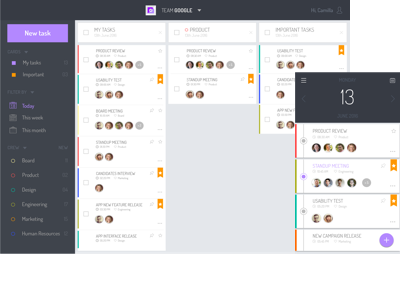
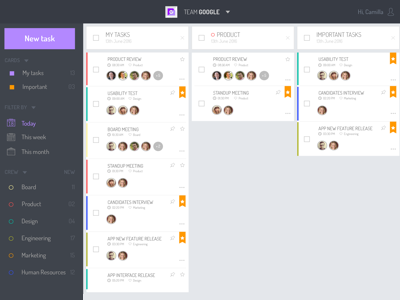
change images and typography

diff --git a/styles/css/styles.min.css b/styles/css/styles.min.css
@@ -1,1 +1,1 @@
-body{width:100%;height:100vh;display:inline-block;font-family:'Graphik Web', 'Roboto';font-weight:400;background-color:#fff;color:#424242;line-height:1.3;text-align:left}*,*:before,*:after{box-sizing:border-box}ul{padding:0;list-style:none}a{text-decoration:none}h2{font-size:32px}h4{margin:0 0 .5rem}p{font-size:16px;color:#9E9E9E;margin:0}.text-align--left{text-align:left}.text-align--center{text-align:center}.text-align--right{text-align:right}.flex--40{-ms-flex-preferred-size:40%;flex-basis:40%}.flex--50{-ms-flex-preferred-size:50%;flex-basis:50%}.flex--60{-ms-flex-preferred-size:60%;flex-basis:60%}.grid--2{-ms-grid-columns:(1fr)[2];grid-template-columns:repeat(2, 1fr)}.grid--3{-ms-grid-columns:(1fr)[3];grid-template-columns:repeat(3, 1fr)}.grid--4{-ms-grid-columns:(1fr)[4];grid-template-columns:repeat(4, 1fr)}.grid--5{-ms-grid-columns:(1fr)[5];grid-template-columns:repeat(5, 1fr)}.bubbles{margin:1rem 0 .5rem}.bubble{display:inline;padding:.3rem .5rem;font-weight:300;text-transform:uppercase;border-radius:.75rem}.bubble--red{background:#FF5252;color:#FFCECE}.bubble--blue{background:#00B8d4;color:#9EF2FF}@font-face{font-family:'Graphik Web';src:url("../../assets/fonts/Graphik-Medium-Web.eot");src:url("../../assets/fonts/Graphik-Medium-Web.eot?#iefix") format("embedded-opentype"),url("../../assets/fonts/Graphik-Medium-Web.woff2") format("woff2"),url("../../assets/fonts/Graphik-Medium-Web.woff") format("woff");font-weight:500;font-style:normal;font-stretch:normal}@font-face{font-family:'Graphik Web';src:url("../../assets/fonts/Graphik-Regular-Web.eot");src:url("../../assets/fonts/Graphik-Regular-Web.eot?#iefix") format("embedded-opentype"),url("../../assets/fonts/Graphik-Regular-Web.woff2") format("woff2"),url("../../assets/fonts/Graphik-Regular-Web.woff") format("woff");font-weight:400;font-style:normal;font-stretch:normal}@font-face{font-family:'Graphik Web';src:url("../../assets/fonts/Graphik-Light-Web.eot");src:url("../../assets/fonts/Graphik-Light-Web.eot?#iefix") format("embedded-opentype"),url("../../assets/fonts/Graphik-Light-Web.woff2") format("woff2"),url("../../assets/fonts/Graphik-Light-Web.woff") format("woff");font-weight:300;font-style:normal;font-stretch:normal}.text__label{font-size:.75rem;font-weight:400;color:#FF5252;margin:1rem 0 .5rem;text-transform:uppercase}.text__label--small{font-size:.65rem;margin:.25rem 0 0}.text__title{font-weight:400;color:#424242;margin:0}.text__title--light{font-size:1rem;font-weight:300}.text__subtitle{font-size:.85rem;font-weight:300;color:#424242}.text__description,.text__list{font-size:.85rem;font-weight:300;margin-top:.5rem}.text__description{color:#697788;line-height:1.5}.text__list{color:#BDBDBD;margin-bottom:.5rem}.header{background:#fff}.header__title{-webkit-mask:url("../../assets/images/camilla-medeiros-logo.svg") no-repeat;mask:url("../../assets/images/camilla-medeiros-logo.svg") no-repeat;-webkit-mask-size:contain;mask-size:contain;background-color:#FF5252;width:20rem;height:3rem;margin:0 auto;letter-spacing:2px;text-transform:lowercase;transition:all 0.3s}.header__title--small{position:absolute;top:1.5rem;left:1rem;width:12rem;height:1.7rem}.header__title--large{animation:colorChange 20s infinite alternate}.header__link{color:#FF5252}.header--medium{position:fixed;right:0;left:0;height:210px;padding-top:4rem;overflow:hidden;transition:height 0.3s;text-align:center;z-index:9999}.header--full{display:-ms-flexbox;display:flex;-ms-flex-align:center;align-items:center;-ms-flex-direction:column;flex-direction:column;-ms-flex-pack:center;justify-content:center;width:100%;height:calc(100vh - 3.25rem);transition:all 2s ease}.header--shrink{transition:all 0.4s;height:75px;padding:1rem;box-shadow:0px 2px 10px 0px rgba(0,0,0,0.1)}.navigation__item{display:inline;font-size:1rem;font-weight:300;margin:0 .5rem;text-transform:uppercase}.navigation__link{color:#757575;padding:0 .5rem 1.25rem;border-bottom:6px solid transparent}.navigation__link:hover{border-bottom:6px solid #eee}.navigation__link--active{border-bottom:6px solid #eee}.main{width:100%}.main--full{padding-top:210px}.main--medium{padding-top:100px}.main__wrapper{max-width:956px;margin:0 auto;padding-bottom:3.5rem}.footer{position:fixed;right:0;bottom:0;left:0;display:-ms-flexbox;display:flex;-ms-flex-align:center;align-items:center;z-index:999;background:#fff;padding:1rem;border-top:1px solid #eee}.footer__left{font-size:.75rem;font-weight:300;margin-right:auto}.footer__social{margin:0 .25rem}.footer__link:hover{text-decoration:underline}.footer a{color:#BDBDBD}.footer a:hover{color:#FF8A80}@media (min-width: 0) and (max-width: 768px){.footer{display:inline-block;text-align:center}.footer__right{display:none}}.block__profile{display:-ms-flexbox;display:flex;-ms-flex-align:center;align-items:center;max-width:600px;margin:2.5rem auto}.block__image{-ms-flex-negative:0;flex-shrink:0;background:url("../../assets/images/camilla-medeiros.png") no-repeat;background-size:cover;width:150px;height:150px;margin:0 auto;border-radius:10rem;-webkit-filter:grayscale(100%);filter:grayscale(100%)}.block__description{margin-left:3rem}.block__contact{background:#eee;max-width:300px;margin:3rem auto;padding:3rem;text-align:center}@media (min-width: 0) and (max-width: 768px){.block__profile{-ms-flex-direction:column;flex-direction:column;margin:1rem auto;text-align:center}.block__description{margin:0 2rem}}@keyframes colorChange{0%{background-color:#FF5252}10%{background-color:#FF6D00}20%{background-color:#FFD600}30%{background-color:#AEEA00}40%{background-color:#00C853}50%{background-color:#1de9b6}60%{background-color:#00B8d4}70%{background-color:#40c4ff}80%{background-color:#a0f}90%{background-color:#EA80FC}100%{background-color:#F83864}}.list{display:-ms-grid;display:grid;margin:4.5rem 0}.list__item{padding:1rem}.item__link{display:block;width:100%;border:1px solid #eee;transform:translateY(0.5rem);transition:transform .3s ease-in-out}.item__link:hover{box-shadow:0px 0px 20px 0px rgba(0,0,0,0.1);transform:scale(1.025)}.item__category{color:#697788;font-size:.75rem;font-weight:300;text-transform:uppercase;padding:1rem;margin:0}.item__preview{width:100%}.item__content{padding:1.5rem 1rem}.item__categories{margin:1rem 0 .5rem}.timeline{width:800px;margin:0 auto}.timeline__list{background-color:#fff;color:#9E9E9E;margin-bottom:1.5rem;padding:1.5rem 1.5rem 0}.timeline__item{position:relative;display:-ms-flexbox;display:flex;-ms-flex-align:baseline;align-items:baseline;padding:2rem 0}.timeline__dot{position:absolute;top:.25rem;left:-1.2rem;width:.75rem;height:.75rem;z-index:9;background-color:#eee;border-radius:10rem}.timeline__dot--current{background-color:#FF5252}.timeline__left{-ms-flex:1;flex:1;margin-right:1.5rem;padding-right:.75rem;text-align:right}.timeline__right{position:relative;-ms-flex:1;flex:1;padding-left:.5rem}.timeline__right--connected{position:relative}.timeline__right--connected::after{content:' ';position:absolute;top:.5rem;bottom:-5rem;left:-.85rem;width:1px;background-color:#eee}.timeline__right .text__label{position:absolute;top:-1.5rem;margin:0}.timeline__link{color:#FF8A80;font-size:.85rem;font-weight:300}.timeline__link:hover{color:#FF5252}@media (min-width: 0) and (max-width: 544px){.list{-ms-grid-columns:(1fr)[1];grid-template-columns:repeat(1, 1fr);margin:2rem 0}.timeline{width:100%}.timeline__list{margin:0;padding:0 1.5rem}.timeline__left{display:none}.timeline__right{padding-left:1rem}.timeline__right--connected::after{left:0}.timeline__dot{left:-.35rem}}@media (min-width: 544px) and (max-width: 992px){.list{-ms-grid-columns:(1fr)[2];grid-template-columns:repeat(2, 1fr);margin:2rem 0}}
+body{width:100%;height:100vh;display:inline-block;font-family:'Graphik Web', 'Roboto';font-weight:400;background-color:#fff;color:#424242;line-height:1.3;text-align:left}*,*:before,*:after{box-sizing:border-box}ul{padding:0;list-style:none}a{text-decoration:none}h2{font-size:32px}h4{margin:0 0 .5rem}p{font-size:16px;color:#9E9E9E;margin:0}.text-align--left{text-align:left}.text-align--center{text-align:center}.text-align--right{text-align:right}.flex--40{-ms-flex-preferred-size:40%;flex-basis:40%}.flex--50{-ms-flex-preferred-size:50%;flex-basis:50%}.flex--60{-ms-flex-preferred-size:60%;flex-basis:60%}.grid--2{-ms-grid-columns:(1fr)[2];grid-template-columns:repeat(2, 1fr)}.grid--3{-ms-grid-columns:(1fr)[3];grid-template-columns:repeat(3, 1fr)}.grid--4{-ms-grid-columns:(1fr)[4];grid-template-columns:repeat(4, 1fr)}.grid--5{-ms-grid-columns:(1fr)[5];grid-template-columns:repeat(5, 1fr)}.bubbles{margin:1rem 0 .5rem}.bubble{display:inline;padding:.3rem .5rem;font-weight:300;text-transform:uppercase;border-radius:.75rem}.bubble--red{background:#FF5252;color:#FFCECE}.bubble--blue{background:#00B8d4;color:#9EF2FF}@font-face{font-family:'Graphik Web';src:url("../../assets/fonts/Graphik-Medium-Web.eot");src:url("../../assets/fonts/Graphik-Medium-Web.eot?#iefix") format("embedded-opentype"),url("../../assets/fonts/Graphik-Medium-Web.woff2") format("woff2"),url("../../assets/fonts/Graphik-Medium-Web.woff") format("woff");font-weight:500;font-style:normal;font-stretch:normal}@font-face{font-family:'Graphik Web';src:url("../../assets/fonts/Graphik-Regular-Web.eot");src:url("../../assets/fonts/Graphik-Regular-Web.eot?#iefix") format("embedded-opentype"),url("../../assets/fonts/Graphik-Regular-Web.woff2") format("woff2"),url("../../assets/fonts/Graphik-Regular-Web.woff") format("woff");font-weight:400;font-style:normal;font-stretch:normal}@font-face{font-family:'Graphik Web';src:url("../../assets/fonts/Graphik-Light-Web.eot");src:url("../../assets/fonts/Graphik-Light-Web.eot?#iefix") format("embedded-opentype"),url("../../assets/fonts/Graphik-Light-Web.woff2") format("woff2"),url("../../assets/fonts/Graphik-Light-Web.woff") format("woff");font-weight:300;font-style:normal;font-stretch:normal}.text__label{font-size:.75rem;font-weight:400;color:#FF5252;margin:1rem 0 .5rem;text-transform:uppercase}.text__label--small{font-size:.65rem;margin:.25rem 0 0}.text__title{font-weight:400;color:#424242;margin:0}.text__title--light{font-size:1rem;font-weight:300}.text__title--medium{font-weight:500}.text__subtitle{font-size:.85rem;font-weight:300;color:#424242}.text__description,.text__list{font-size:.85rem;font-weight:300;margin-top:.5rem}.text__description{color:#697788;line-height:1.5}.text__list{color:#BDBDBD;margin-bottom:.5rem}.header{background:#fff}.header__title{-webkit-mask:url("../../assets/images/camilla-medeiros-logo.svg") no-repeat;mask:url("../../assets/images/camilla-medeiros-logo.svg") no-repeat;-webkit-mask-size:contain;mask-size:contain;background-color:#FF5252;width:20rem;height:3rem;margin:0 auto;letter-spacing:2px;text-transform:lowercase;transition:all 0.3s}.header__title--small{position:absolute;top:1.5rem;left:1rem;width:12rem;height:1.7rem}.header__title--large{animation:colorChange 20s infinite alternate}.header__link{color:#FF5252}.header--medium{position:fixed;right:0;left:0;height:210px;padding-top:4rem;overflow:hidden;transition:height 0.3s;text-align:center;z-index:9999}.header--full{display:-ms-flexbox;display:flex;-ms-flex-align:center;align-items:center;-ms-flex-direction:column;flex-direction:column;-ms-flex-pack:center;justify-content:center;width:100%;height:calc(100vh - 3.25rem);transition:all 2s ease}.header--shrink{transition:all 0.4s;height:75px;padding:1rem;box-shadow:0px 2px 10px 0px rgba(0,0,0,0.1)}.navigation__item{display:inline;font-size:1rem;font-weight:300;margin:0 .5rem;text-transform:uppercase}.navigation__link{color:#757575;padding:0 .5rem 1.25rem;border-bottom:6px solid transparent}.navigation__link:hover{border-bottom:6px solid #eee}.navigation__link--active{border-bottom:6px solid #eee}.main{width:100%}.main--full{padding-top:210px}.main--medium{padding-top:100px}.main__wrapper{max-width:956px;margin:0 auto;padding-bottom:3.5rem}.footer{position:fixed;right:0;bottom:0;left:0;display:-ms-flexbox;display:flex;-ms-flex-align:center;align-items:center;z-index:999;background:#fff;padding:1rem;border-top:1px solid #eee}.footer__left{font-size:.75rem;font-weight:300;margin-right:auto}.footer__social{margin:0 .25rem}.footer__link:hover{text-decoration:underline}.footer a{color:#BDBDBD}.footer a:hover{color:#FF8A80}@media (min-width: 0) and (max-width: 768px){.footer{display:inline-block;text-align:center}.footer__right{display:none}}.block__profile{display:-ms-flexbox;display:flex;-ms-flex-align:center;align-items:center;max-width:600px;margin:2.5rem auto}.block__image{-ms-flex-negative:0;flex-shrink:0;background:url("../../assets/images/camilla-medeiros.png") no-repeat;background-size:cover;width:150px;height:150px;margin:0 auto;border-radius:10rem;-webkit-filter:grayscale(100%);filter:grayscale(100%)}.block__description{margin-left:3rem}.block__contact{background:#eee;max-width:300px;margin:3rem auto;padding:3rem;text-align:center}@media (min-width: 0) and (max-width: 768px){.block__profile{-ms-flex-direction:column;flex-direction:column;margin:1rem auto;text-align:center}.block__description{margin:0 2rem}}@keyframes colorChange{0%{background-color:#FF5252}10%{background-color:#FF6D00}20%{background-color:#FFD600}30%{background-color:#AEEA00}40%{background-color:#00C853}50%{background-color:#1de9b6}60%{background-color:#00B8d4}70%{background-color:#40c4ff}80%{background-color:#a0f}90%{background-color:#EA80FC}100%{background-color:#F83864}}.list{display:-ms-grid;display:grid;margin:4.5rem 0}.list__item{padding:1rem}.item__link{display:block;width:100%;border:1px solid #eee;transform:translateY(0.5rem);transition:transform .3s ease-in-out}.item__link:hover{box-shadow:0px 0px 20px 0px rgba(0,0,0,0.1);transform:scale(1.025)}.item__category{color:#697788;font-size:.75rem;font-weight:300;text-transform:uppercase;padding:1rem;margin:0}.item__preview{width:100%}.item__content{padding:1.5rem 1rem}.item__categories{margin:1rem 0 .5rem}.timeline{width:800px;margin:0 auto}.timeline__list{background-color:#fff;color:#9E9E9E;margin-bottom:1.5rem;padding:1.5rem 1.5rem 0}.timeline__item{position:relative;display:-ms-flexbox;display:flex;-ms-flex-align:baseline;align-items:baseline;padding:2rem 0}.timeline__dot{position:absolute;top:.25rem;left:-1.2rem;width:.75rem;height:.75rem;z-index:9;background-color:#eee;border-radius:10rem}.timeline__dot--current{background-color:#FF5252}.timeline__left{-ms-flex:1;flex:1;margin-right:1.5rem;padding-right:.75rem;text-align:right}.timeline__right{position:relative;-ms-flex:1;flex:1;padding-left:.5rem}.timeline__right--connected{position:relative}.timeline__right--connected::after{content:' ';position:absolute;top:.5rem;bottom:-5rem;left:-.85rem;width:1px;background-color:#eee}.timeline__right .text__label{position:absolute;top:-1.5rem;margin:0}.timeline__link{color:#FF8A80;font-size:.85rem;font-weight:300}.timeline__link:hover{color:#FF5252}@media (min-width: 0) and (max-width: 544px){.list{-ms-grid-columns:(1fr)[1];grid-template-columns:repeat(1, 1fr);margin:2rem 0}.timeline{width:100%}.timeline__list{margin:0;padding:0 1.5rem}.timeline__left{display:none}.timeline__right{padding-left:1rem}.timeline__right--connected::after{left:0}.timeline__dot{left:-.35rem}}@media (min-width: 544px) and (max-width: 992px){.list{-ms-grid-columns:(1fr)[2];grid-template-columns:repeat(2, 1fr);margin:2rem 0}}

diff --git a/projects.html b/projects.html
@@ -62,7 +62,7 @@
                     >
                         <img src="./assets/images/project-1.png" class="item__preview">
                         <div class="item__content">
-                            <h3 class="text__title">Carta.com</h3>
+                            <h3 class="text__title text__title--medium">Carta.com</h3>
                             <p class="text__description text__description--light">
                                 Modernize the way you manage ownership.
                             </p>
@@ -82,7 +82,7 @@
 
                         <img src="./assets/images/project-2.png" class="item__preview">
                         <div class="item__content">
-                            <h3 class="text__title">Carta platform</h3>
+                            <h3 class="text__title text__title--medium">Carta platform</h3>
                             <p class="text__description text__description--light">
                                 Modernize the way you manage ownership.
                             </p>
@@ -104,7 +104,7 @@
 
                         <img src="./assets/images/project-3.png" class="item__preview">
                         <div class="item__content">
-                            <h3 class="text__title">Easy.tasker</h3>
+                            <h3 class="text__title text__title--medium">Easy.tasker</h3>
                             <p class="text__description text__description--light">
                                 Modernize the way you manage ownership.
                             </p>
@@ -123,7 +123,7 @@
 
                         <img src="./assets/images/project-4.png" class="item__preview">
                         <div class="item__content">
-                            <h3 class="text__title">Sugarholics</h3>
+                            <h3 class="text__title text__title--medium">Sugarholics</h3>
                             <p class="text__description text__description--light">
                                 Modernize the way you manage ownership.
                             </p>
@@ -143,7 +143,7 @@
 
                         <img src="./assets/images/project-5.png" class="item__preview">
                         <div class="item__content">
-                            <h3 class="text__title">Washer</h3>
+                            <h3 class="text__title text__title--medium">Washer</h3>
                             <p class="text__description text__description--light">
                                 Modernize the way you manage ownership.
                             </p>
@@ -162,7 +162,7 @@
 
                         <img src="./assets/images/project-6.png" class="item__preview">
                         <div class="item__content">
-                            <h3 class="text__title">Bome</h3>
+                            <h3 class="text__title text__title--medium">Bome</h3>
                             <p class="text__description text__description--light">
                                 Modernize the way you manage ownership.
                             </p>
@@ -181,7 +181,7 @@
 
                         <img src="./assets/images/project-7.png" class="item__preview">
                         <div class="item__content">
-                            <h3 class="text__title">Eapp</h3>
+                            <h3 class="text__title text__title--medium">Eapp</h3>
                             <p class="text__description text__description--light">
                                 Modernize the way you manage ownership.
                             </p>
@@ -200,7 +200,7 @@
 
                         <img src="./assets/images/project-8.png" class="item__preview">
                         <div class="item__content">
-                            <h3 class="text__title">PAR</h3>
+                            <h3 class="text__title text__title--medium">PAR</h3>
                             <p class="text__description text__description--light">
                                 Modernize the way you manage ownership.
                             </p>

diff --git a/styles/sass/_typography.sass b/styles/sass/_typography.sass
@@ -25,6 +25,9 @@
             font-size: $font-size-mean
             font-weight: $font-weight-light
 
+        &--medium
+            font-weight: $font-weight-medium
+
     &__subtitle
         font-size: $font-size-mini
         font-weight: $font-weight-light

diff --git a/styles/sass/_type-variables.sass b/styles/sass/_type-variables.sass
@@ -5,8 +5,6 @@
 ///////////////////////////////////////////////////////////////
 
 // Font weigth
-$font-weight-bold:     700
-$font-weight-semibold: 600
 $font-weight-medium:   500
 $font-weight-regular:  400
 $font-weight-light:    300
